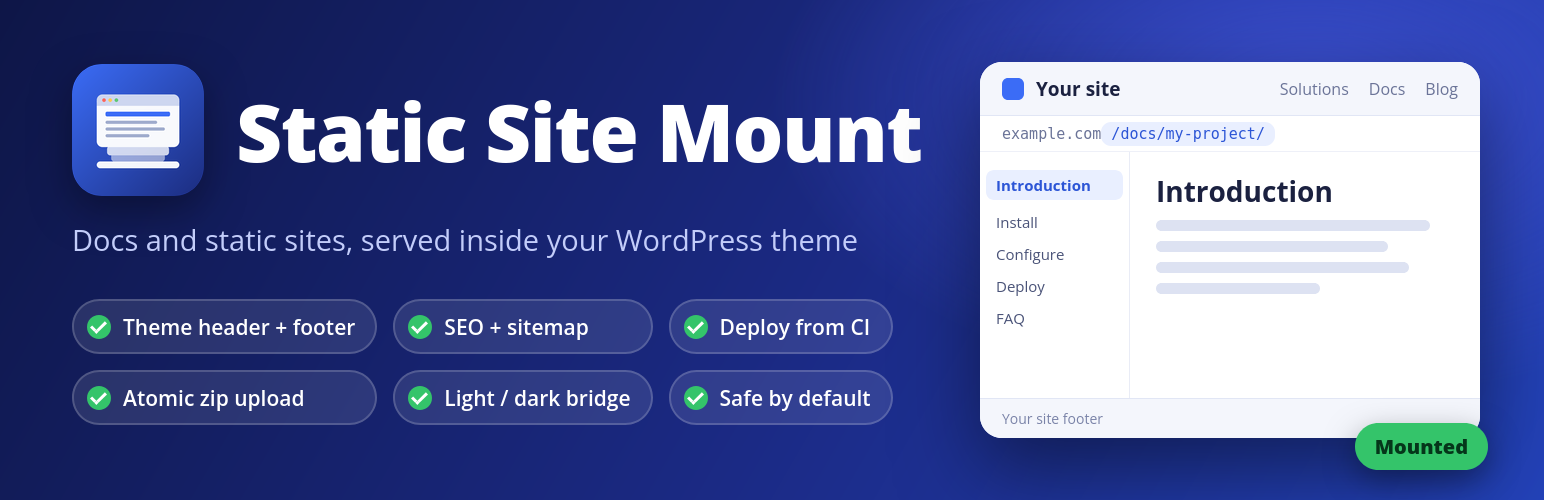
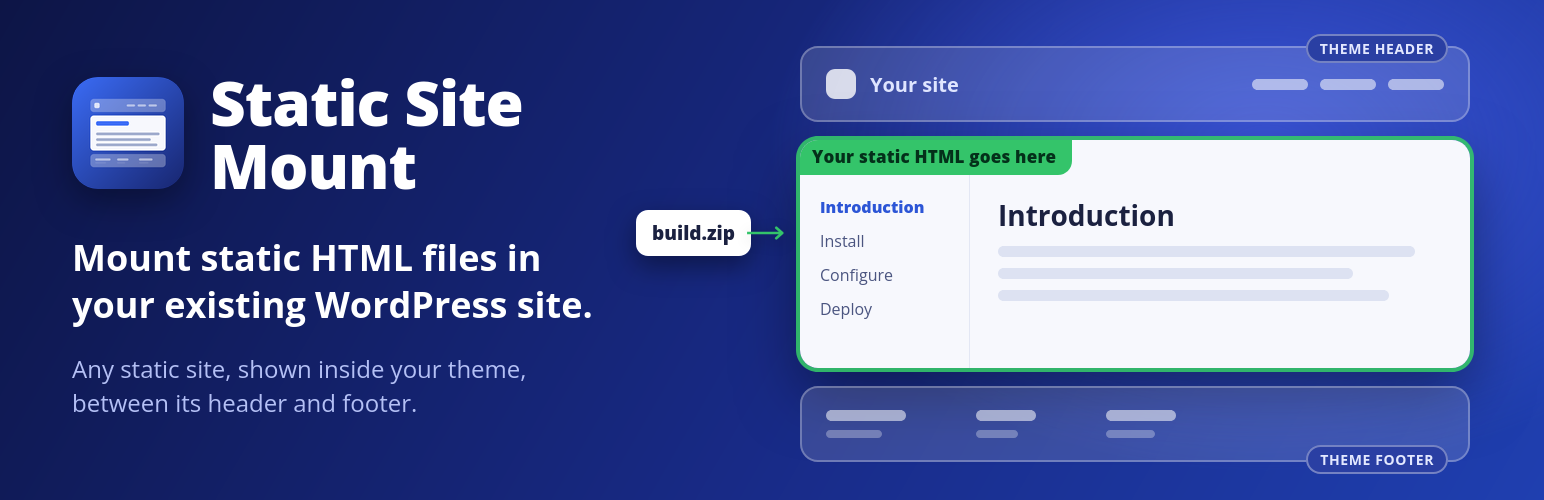
fix: several minor graphic fixes

diff --git a/assets/src/banner.html b/assets/src/banner.html
@@ -1,45 +1,52 @@
 <!doctype html><meta charset="utf-8">
 <style>
 *{box-sizing:border-box;margin:0}
-body{width:1544px;height:500px;overflow:hidden;font-family:"Open Sans","Noto Sans","Liberation Sans",sans-serif;color:#fff;
-background:radial-gradient(900px 500px at 85% 20%,#3b4fd0 0%,rgba(59,79,208,0) 60%),linear-gradient(120deg,#0e1647 0%,#1b2a85 55%,#2342b8 100%);position:relative}
-.left{position:absolute;left:72px;top:64px;width:860px}
-.head{display:flex;align-items:center;gap:32px}
-.head img{width:132px;height:132px;border-radius:30px;box-shadow:0 14px 40px rgba(0,0,0,.35)}
-h1{font-size:80px;line-height:1;font-weight:800;letter-spacing:-1.5px;white-space:nowrap}
-.tag{margin:24px 0 0 0;font-size:29px;color:#c3cdfa;white-space:nowrap}
-.pills{display:grid;grid-template-columns:repeat(3,auto);gap:16px;margin-top:40px;width:max-content}
-.pill{display:flex;align-items:center;gap:12px;padding:11px 20px 11px 13px;border-radius:40px;background:rgba(255,255,255,.1);border:2px solid rgba(255,255,255,.18);font-size:21px;font-weight:600;white-space:nowrap}
-.pill i{width:24px;height:24px;border-radius:50%;background:#34c46a;display:inline-block;position:relative}
-.pill i:after{content:"";position:absolute;left:7px;top:3px;width:6px;height:12px;border:solid #fff;border-width:0 3px 3px 0;transform:rotate(45deg)}
-.card{position:absolute;right:64px;top:62px;width:500px;height:376px;border-radius:22px;background:#fff;color:#1b2140;box-shadow:0 30px 80px rgba(0,0,0,.45);overflow:hidden}
-.nav{height:54px;background:#f4f6fc;border-bottom:1px solid #e1e6f5;display:flex;align-items:center;padding:0 22px;gap:12px;font-size:19px;font-weight:700}
-.nav b{width:22px;height:22px;border-radius:6px;background:#3b6cf6}
-.nav span{margin-left:auto;color:#6b7498;font-weight:500;font-size:16px;display:flex;gap:20px}
-.url{height:36px;background:#fff;border-bottom:1px solid #eef0f8;font-size:15px;color:#6b7498;padding:0 22px;display:flex;align-items:center;font-family:"DejaVu Sans Mono",monospace}
-.url em{background:#e9efff;color:#2c55d6;padding:3px 10px;border-radius:10px;font-style:normal}
-.body{display:flex;height:calc(100% - 90px - 40px)}
-.side{width:150px;border-right:1px solid #e9ecf6;padding:18px 16px;font-size:15px;color:#4a5378;display:flex;flex-direction:column;gap:12px}
-.side u{text-decoration:none;color:#2c55d6;font-weight:700;background:#e9efff;border-radius:8px;padding:5px 10px;margin:0 -10px}
-.main{padding:20px 26px;flex:1}
-.main h2{font-size:28px;margin-bottom:10px}
-.ln{height:11px;border-radius:6px;background:#dde2f2;margin:10px 0}
-.foot{position:absolute;bottom:0;left:0;right:0;height:40px;background:#f4f6fc;border-top:1px solid #e1e6f5;font-size:14px;color:#7a83a8;display:flex;align-items:center;padding:0 22px}
-.badge{position:absolute;right:56px;bottom:30px;background:#34c46a;color:#05361a;font-weight:800;font-size:20px;padding:10px 20px;border-radius:30px;box-shadow:0 10px 30px rgba(0,0,0,.35)}
+body{width:1544px;height:500px;overflow:hidden;font-family:"Open Sans","Noto Sans","Liberation Sans",sans-serif;color:#fff;position:relative;
+background:radial-gradient(800px 520px at 82% 30%,#3a54d8 0%,rgba(58,84,216,0) 62%),linear-gradient(120deg,#0d1546 0%,#182a86 55%,#1f3fb0 100%)}
+.left{position:absolute;left:72px;top:70px;width:540px}
+.brand{display:flex;align-items:center;gap:26px}
+.brand img{width:112px;height:112px;border-radius:26px;box-shadow:0 12px 34px rgba(0,0,0,.35)}
+h1{font-size:62px;line-height:1.02;font-weight:800;letter-spacing:-1px}
+.tag{margin-top:38px;font-size:36px;line-height:1.3;color:#fff;font-weight:700}
+.sub{margin-top:24px;font-size:24px;line-height:1.4;color:#b4c0f5}
+
+/* the diagram */
+.stack{position:absolute;left:800px;top:46px;width:670px}
+.band{border-radius:18px;display:flex;align-items:center;padding:0 24px;position:relative}
+.theme{height:76px;background:rgba(255,255,255,.14);border:2px solid rgba(255,255,255,.28);font-size:20px;font-weight:700;color:#dfe5ff;gap:14px}
+.theme .lg{width:30px;height:30px;border-radius:9px;background:rgba(255,255,255,.8)}
+.theme .nav{margin-left:auto;display:flex;gap:12px}
+.theme .nav i{width:56px;height:11px;border-radius:6px;background:rgba(255,255,255,.55)}
+.tag-l{position:absolute;right:20px;top:-14px;font-size:14px;font-weight:700;letter-spacing:.6px;text-transform:uppercase;background:#2a3fa3;border:2px solid rgba(255,255,255,.35);border-radius:20px;padding:3px 12px;color:#e3e8ff}
+.page{margin:18px 0;height:228px;background:#f7f8fd;color:#1b2140;border-radius:18px;padding:0;overflow:hidden;box-shadow:0 0 0 4px rgba(52,196,106,.9),0 24px 60px rgba(0,0,0,.4);display:flex;position:relative}
+.page .side{width:170px;border-right:1px solid #e3e7f4;padding:56px 20px 22px;font-size:16px;color:#4b5580;display:flex;flex-direction:column;gap:12px}
+.page .side u{text-decoration:none;color:#2c55d6;font-weight:800}
+.page .main{flex:1;padding:22px 28px}
+.page h2{font-size:28px;margin-bottom:12px}
+.ln{height:11px;border-radius:6px;background:#dde2f2;margin:11px 0}
+.ribbon{position:absolute;left:-2px;top:-2px;background:#34c46a;color:#04301a;font-weight:800;font-size:17px;padding:7px 16px 7px 14px;border-radius:16px 0 14px 0;letter-spacing:.2px;z-index:2}
+.foot{height:76px;background:rgba(255,255,255,.14);border:2px solid rgba(255,255,255,.28)}
+.foot .cols{display:flex;gap:70px}
+.foot .cols div{display:flex;flex-direction:column;gap:9px}
+.foot .cols i{display:block;height:11px;border-radius:6px;background:rgba(255,255,255,.55)}
+.foot .cols i+i{height:8px;background:rgba(255,255,255,.3);width:70%}
+/* arrow from the build into the page */
+.build{position:absolute;left:636px;top:210px;width:150px;display:flex;align-items:center;gap:0;z-index:3}
+.build .zip{background:#fff;color:#1b2140;font-weight:800;font-size:19px;padding:10px 16px;border-radius:12px;box-shadow:0 10px 26px rgba(0,0,0,.4);white-space:nowrap}
+.build svg{margin-left:-4px;filter:drop-shadow(0 4px 8px rgba(0,0,0,.35))}
 </style>
 <div class="left">
- <div class="head"><img src="../icon-static-512x512.png"><div><h1>Static Site Mount</h1></div></div>
- <div class="tag">Docs and static sites, served inside your WordPress theme</div>
- <div class="pills">
-  <div class="pill"><i></i>Theme header + footer</div><div class="pill"><i></i>SEO + sitemap</div><div class="pill"><i></i>Deploy from CI</div>
-  <div class="pill"><i></i>Atomic zip upload</div><div class="pill"><i></i>Light / dark bridge</div><div class="pill"><i></i>Safe by default</div>
+ <div class="brand"><img src="../icon-static-512x512.png"><h1>Static Site<br>Mount</h1></div>
+ <div class="tag">Mount static HTML files in your existing WordPress site.</div>
+ <div class="sub">Any static site, shown inside your theme, between its header and footer.</div>
+</div>
+<div class="build"><div class="zip">build.zip</div>
+ <svg width="104" height="40" viewBox="0 0 104 40"><path d="M2 20h88M78 6l16 14-16 14" fill="none" stroke="#34c46a" stroke-width="7" stroke-linecap="round" stroke-linejoin="round"/></svg></div>
+<div class="stack">
+ <div class="band theme"><span class="lg"></span>Your site<div class="nav"><i></i><i></i><i></i></div><span class="tag-l">Theme header</span></div>
+ <div class="page"><span class="ribbon">Your static HTML goes here</span>
+  <div class="side"><u>Introduction</u><span>Install</span><span>Configure</span><span>Deploy</span></div>
+  <div class="main" style="padding-top:56px"><h2>Introduction</h2><div class="ln" style="width:94%"></div><div class="ln" style="width:80%"></div><div class="ln" style="width:88%"></div></div>
  </div>
+ <div class="band theme foot"><div class="cols"><div><i style="width:80px"></i><i></i></div><div><i style="width:60px"></i><i></i></div><div><i style="width:70px"></i><i></i></div></div><span class="tag-l" style="top:auto;bottom:-14px">Theme footer</span></div>
 </div>
-<div class="card">
- <div class="nav"><b></b>Your site<span><i style="font-style:normal">Solutions</i><i style="font-style:normal">Docs</i><i style="font-style:normal">Blog</i></span></div>
- <div class="url">example.com<em>/docs/my-project/</em></div>
- <div class="body"><div class="side"><u>Introduction</u><span>Install</span><span>Configure</span><span>Deploy</span><span>FAQ</span></div>
- <div class="main"><h2>Introduction</h2><div class="ln" style="width:92%"></div><div class="ln" style="width:78%"></div><div class="ln" style="width:85%"></div><div class="ln" style="width:55%"></div></div></div>
- <div class="foot">Your site footer</div>
-</div>
-<div class="badge">Mounted</div>

diff --git a/README.md b/README.md
@@ -1,66 +1,54 @@
 # Static Site Mount
 
-[![Latest release](https://img.shields.io/github/v/release/wenisch-tech/wordpress-static-site-mount?label=release)](https://github.com/wenisch-tech/wordpress-static-site-mount/releases/latest)
 [![License: GPL v2+](https://img.shields.io/badge/license-GPL--2.0--or--later-blue)](LICENSE)
-[![Plugin Check](https://img.shields.io/badge/Plugin%20Check-passing-brightgreen)](#development)
 
 ![Static Site Mount](assets/banner-1544x500.png)
 
-Static Site Mount publishes a **built static site** (Docusaurus, MkDocs, Hugo, plain HTML) at a URL of your WordPress site, **inside your theme's header and footer**, with SEO tags and a sitemap, and lets you **deploy it from CI with one request**.
+A WordPress plugin that mounts static HTML files in your existing WordPress site. A folder of HTML, CSS, JavaScript and images is served at a path of your choice and shown between your theme's header and footer. Where the files come from does not matter: a documentation generator (for example Docusaurus, MkDocs or Hugo), a landing page, an exported report, or HTML you wrote by hand.
 
-Typical use: product documentation built with Docusaurus lives at `https://example.com/docs/my-project/`, looks like part of your site, and updates itself on every release. No second domain, no iframe, no copy of your header in the docs project.
+I wrote it because static sites, project docs in particular, usually end up on a subdomain with their own look, their own menu and no connection to the main site's SEO. With this plugin the build lives at something like `example.com/docs/my-project/`, looks like the rest of the site, and is updated by a single request from CI.
 
-![Static Site Mount logo](assets/logo-animation.gif)
+## What happens to a page
 
-## What it does
+You deploy a folder of HTML files. When someone opens one of its URLs, the plugin reads the file, takes your block theme's header and footer, and prints the page's own `<body>` between them. If the files come with their own navbar and footer, those are hidden with CSS, or removed on the server for plain HTML. Hiding is the safer choice for JavaScript-driven sites (Docusaurus and MkDocs Material are examples), because their scripts expect the original markup to be there.
 
-- **Mounts a folder at a URL prefix.** Pages, assets and fonts are served through WordPress with correct MIME types, `ETag`/`304`, and long-lived caching for fingerprinted files.
-- **Wraps pages in your block theme's header and footer**, so menu, branding and the light/dark switch are shared. The generator's own navbar and footer are hidden with CSS (JavaScript apps keep working) or removed on the server (plain HTML).
-- **Writes the SEO tags itself:** title, meta description, canonical URL (rewritten to the mounted URL), Open Graph and Twitter tags, `noindex` support. Yoast SEO's tags are suppressed on these pages, so nothing is duplicated.
-- **Sitemap:** `/stasimo-pages.xml`, announced in Yoast's sitemap index and `robots.txt`.
-- **Deploy from CI:** upload a zip to a REST endpoint; the folder is replaced atomically and re-indexed. WP-CLI commands are included.
-- **Light/dark bridge:** the mounted site follows your theme's light or dark choice.
-- **Safe by default:** only allow-listed file types are served, no dotfiles, no path traversal, archives are checked for zip-slip and executable files, and the files are not reachable directly from `wp-content`. A refused deploy leaves the live site untouched.
-- **Own admin menu** with a mounts list, per-mount details, enable/disable and an About page with an environment check.
+The plugin writes the head itself: title, description, canonical URL, Open Graph and Twitter tags, `noindex` if the page asks for it. If Yoast SEO is active, its tags are switched off on these pages so nothing is duplicated. All pages go into `/stasimo-pages.xml`, which is added to Yoast's sitemap index and to `robots.txt`.
 
-| Mounts | Mount details |
-|---|---|
-| ![Mounts list](assets/screenshot-2.png) | ![Mount details](assets/screenshot-3.png) |
+Other things it does:
 
-![A mounted Docusaurus site inside the theme](assets/screenshot-1.png)
+- serves assets with the right MIME type, `ETag`, and long caching for fingerprinted files
+- follows the theme's light/dark choice, if you tell it the localStorage key
+- replaces a mount's folder atomically on every deploy
+- has its own admin menu (Static Sites) and WP-CLI commands
 
 ## Requirements
 
-- WordPress 5.9 or later and PHP 7.4 or later (the `zip` extension is needed for deploys).
-- A **block theme** for the header/footer wrapper. Classic themes get the page without the theme chrome; use the `stasimo_header_html` and `stasimo_footer_html` filters.
-- Pretty permalinks (**Settings → Permalinks**).
+WordPress 5.9, PHP 7.4 with the zip extension (needed for deploys), pretty permalinks, and a block theme. With a classic theme the page is served without header and footer, unless you supply them through the `stasimo_header_html` and `stasimo_footer_html` filters.
 
-## Installation
+## Install
 
-1. Download `static-site-mount-x.y.z.zip` from the [releases page](https://github.com/wenisch-tech/wordpress-static-site-mount/releases).
-2. Go to **Plugins → Add New → Upload Plugin**, upload the ZIP and activate it.
+Download the zip from the releases page, upload it under Plugins, Add New, Upload Plugin, and activate it. There is no release yet, so for now: copy this folder to `wp-content/plugins/static-site-mount/`.
 
-Or unzip it into `wp-content/plugins/` and activate it there.
+## Set up a mount
 
-## Quick start
+Build your site with the mount's URL as its base path. The plugin does not rewrite URLs inside JavaScript bundles, so this has to be right at build time. Hand-written HTML with relative links needs nothing special. Two examples of the setting:
 
-1. **Build your site with the mount prefix as its base URL.** Docusaurus:
+Docusaurus:
 
-   ```js
-   // docusaurus.config.js
-   url: 'https://example.com',
-   baseUrl: '/docs/my-project/',
-   trailingSlash: true,
-   ```
+```js
+// docusaurus.config.js
+url: 'https://example.com',
+baseUrl: '/docs/my-project/',
+trailingSlash: true,
+```
 
-   MkDocs: `site_url: https://example.com/docs/my-project/`.
+MkDocs: `site_url: https://example.com/docs/my-project/`
 
-2. Open **Static Sites → Mounts → Add mount**: name `my-project`, URL prefix `docs/my-project`, type *Docusaurus*. Optional: the localStorage key of your theme's light/dark choice, and the header height if your theme's header is fixed.
-3. Deploy (see below). Done: `https://example.com/docs/my-project/`.
+Other generators have an equivalent (Hugo: `baseURL`). Then go to Static Sites, Mounts, Add mount, and fill in a name (`my-project`), the URL prefix (`docs/my-project`) and the type. Choose a generator's type if there is one (Docusaurus, MkDocs Material), otherwise "Generic static site". Two optional fields are worth knowing about: the localStorage key your theme uses for light/dark, and the height of your header if it is fixed at the top (the content is pushed down by that much).
 
 ## Deploy from CI
 
-Create an **Application Password** for an administrator (**Users → Profile**) and store it as a secret. After the build:
+Create an Application Password for an administrator account and keep it as a secret. After the build:
 
 ```bash
 cd build && zip -qr ../build.zip . && cd ..
@@ -69,84 +57,82 @@ curl -fsS -u "$WP_USER:$WP_APP_PASSWORD" \
   "https://example.com/wp-json/static-site-mount/v1/mounts/my-project/deploy"
 ```
 
-A complete GitHub Actions job is in [`examples/github-action-deploy.yml`](examples/github-action-deploy.yml). Use multipart (`-F file=@...`): PHP then keeps the upload on disk instead of in memory. A raw `--data-binary` body works for small sites.
+There is a complete GitHub Actions job in [`examples/github-action-deploy.yml`](examples/github-action-deploy.yml). Send the file as multipart; PHP then keeps it on disk instead of in memory. A raw request body also works for small sites.
 
-A zip may have its files at the root or inside a single top-level folder. A build without a top-level `index.html`, or one containing a disallowed file type (for example `.php`), is **refused and the live site stays as it was**.
+The zip can have its files at the top level or inside one folder. If the build has no top-level `index.html`, or contains a file type that is not allowed (`.php`, for example), the deploy is refused and the live site stays as it was.
 
-| Endpoint | Purpose |
+| Endpoint | What it does |
 |---|---|
-| `GET  /wp-json/static-site-mount/v1/mounts` | list mounts, page counts, last index time |
-| `PUT  /wp-json/static-site-mount/v1/mounts/<slug>` | create or update a mount (JSON) |
-| `POST /wp-json/static-site-mount/v1/mounts/<slug>/deploy` | replace the folder with an uploaded zip, re-index |
-| `POST /wp-json/static-site-mount/v1/mounts/<slug>/reindex` | re-index after files changed by other means (FTP, rsync) |
+| `GET /wp-json/static-site-mount/v1/mounts` | list mounts with page counts |
+| `PUT /wp-json/static-site-mount/v1/mounts/<name>` | create or update a mount (JSON) |
+| `POST /wp-json/static-site-mount/v1/mounts/<name>/deploy` | replace the folder with a zip, re-index |
+| `POST /wp-json/static-site-mount/v1/mounts/<name>/reindex` | re-index after changing files some other way |
 
-WP-CLI: `wp static-site-mount list | add | deploy | reindex`.
+WP-CLI: `wp static-site-mount list`, `add`, `deploy`, `reindex`.
 
 ## Mount settings
 
 | Setting | Meaning |
 |---|---|
-| Name | short name, also the default folder `wp-content/uploads/static-sites/<name>/` |
-| URL prefix | where the site appears, for example `docs/my-project`; must match the build's base URL |
-| Type | preset for the generator: Docusaurus, MkDocs Material, or generic static site |
-| Hide elements | CSS selectors hidden in addition to the preset (safe for JavaScript apps) |
+| Name | short name; also the folder name under `wp-content/uploads/static-sites/` |
+| URL prefix | where the site appears, e.g. `docs/my-project`; must match the build's base URL |
+| Type | a preset for a known generator (Docusaurus, MkDocs Material) or generic static site |
+| Hide elements | extra CSS selectors to hide (safe for JavaScript apps) |
 | Remove elements | simple selectors (`tag`, `#id`, `.class`, spaces) removed on the server |
-| Space for a fixed header | pushes the content below a fixed theme header |
+| Space for a fixed header | pixels of padding for a fixed theme header |
 | Light/dark key | localStorage key of the theme's light/dark choice |
-| Title suffix | appended to page titles |
-| Sitemap / noindex | list pages in the sitemap, or ask search engines not to index the mount |
+| Title suffix | appended to every page title |
+| Sitemap, noindex | list the pages in the sitemap, or ask search engines to skip the mount |
 
-A disabled mount is not routed and not in the sitemap; its files and settings are kept.
+A disabled mount is not routed and not in the sitemap. Its files and settings stay.
 
-## Other generators
-
-Choose *Generic static site* and set which elements to remove (for example `header.site-header, footer.site-footer`) or hide. To add a preset, use the `stasimo_presets` filter:
+For anything else, pick "Generic static site" and list what to remove, for example `header.site-header, footer.site-footer`. To reuse the same settings for other mounts, add a preset with the `stasimo_presets` filter:
 
 ```php
-add_filter( 'stasimo_presets', function ( $p ) {
-    $p['hugo-book'] = array(
+add_filter( 'stasimo_presets', function ( $presets ) {
+    $presets['hugo-book'] = array(
         'label' => 'Hugo Book', 'hide' => '.book-header, .book-footer',
         'remove' => '', 'theme_key' => '', 'css' => '',
     );
-    return $p;
+    return $presets;
 } );
 ```
 
-Other hooks: `stasimo_title`, `stasimo_description`, `stasimo_header_html`, `stasimo_footer_html`, `stasimo_host_css`, `stasimo_mime_types`, `stasimo_base_dir`, `stasimo_allow_external_dirs` (allow absolute mount folders, off by default), and the action `stasimo_deployed`.
+Other hooks: `stasimo_title`, `stasimo_description`, `stasimo_header_html`, `stasimo_footer_html`, `stasimo_host_css`, `stasimo_mime_types`, `stasimo_base_dir`, `stasimo_allow_external_dirs`, and the action `stasimo_deployed`.
+
+## Security
+
+A mounted build is HTML and JavaScript served from your own domain. Whoever can deploy can run script on your site, so only deploy builds you trust. Managing mounts therefore needs both `manage_options` and `unfiltered_html`. On multisite, site admins don't have the second one, so only super admins can use the plugin. For CI, use an Application Password of a dedicated administrator.
+
+Uploads are limited to a list of file types. Names that look executable (`shell.php.png`), paths with `..` or absolute paths, and archives larger than 512 MB unpacked or 50,000 files are refused. Mount folders always sit inside `wp-content/uploads/static-sites/`.
+
+On Apache the plugin writes an `.htaccess` that blocks direct access to that folder. On nginx you need to add `location ^~ /wp-content/uploads/static-sites/ { deny all; }` yourself, otherwise the raw files can also be fetched without the theme around them.
+
+The plugin makes no outgoing requests and stores no personal data.
+
+If you upgrade from 0.2.x, settings are migrated on the first request. A `wp-content/static-sites/` folder from the old version keeps being used until you move it.
+
+Report vulnerabilities as a [private security advisory](https://github.com/wenisch-tech/wordpress-static-site-mount/security/advisories/new), not as a public issue.
 
 ## Limitations
 
-- The mounted site's **CSS and your theme's CSS share one page.** Generator styles can collide with theme styles (headings, buttons). Check your pages and add overrides if needed.
-- **Client-side routing needs the right base URL at build time.** The plugin does not rewrite URLs inside JavaScript bundles.
-- Only the generator's own navbar and footer are replaced. Search boxes and version dropdowns that live in the navbar are hidden with it.
-- One WordPress server only: no multisite-aware paths, no CDN purging.
-- Yoast SEO is handled; Rank Math and other SEO plugins only partly.
+- The static site's CSS and your theme's CSS end up on one page and can collide (headings, buttons, fonts). Check a few pages after the first deploy and add overrides where needed.
+- Search boxes or version menus that live in a navbar that gets hidden are hidden with it. Keep the navbar and hide only parts of it if you need them.
+- One server only. There is no CDN purge, and multisite is only lightly tested.
+- Yoast SEO is handled. Other SEO plugins may still print their own tags.
 
 ## Development
 
-Contributions are welcome: fork, branch, follow the [WordPress Coding Standards](https://developer.wordpress.org/coding-standards/wordpress-coding-standards/), open a pull request against `main`.
-
 ```bash
-tests/run.sh up              # throwaway WordPress + MariaDB with the plugin, in Docker
-tests/smoke.sh http://localhost:8089 docs/product
-bin/build-zip.sh             # release zip without tests and dev files
+tests/run.sh up            # WordPress + MariaDB in Docker, plugin mounted
+tests/smoke.sh http://localhost:8089 docs/mini
+bin/build-zip.sh           # release zip without tests and dev files
 ```
 
-The release build passes [Plugin Check](https://wordpress.org/plugins/plugin-check/) without errors or warnings. To run it, start the test environment with `STASIMO_SRC=<built folder> tests/run.sh up`, install `plugin-check` and run `wp plugin check static-site-mount`.
+`tests/fixtures/` holds a small Docusaurus-like site and a deliberately hostile zip fixture. The release build is checked with [Plugin Check](https://wordpress.org/plugins/plugin-check/) (start the environment with `STASIMO_SRC=<built folder> tests/run.sh up`, install `plugin-check`, run `wp plugin check static-site-mount`).
 
-The logo and icons are generated by [`assets/src/make_logo.py`](assets/src/make_logo.py); the banner is [`assets/src/banner.html`](assets/src/banner.html).
-
-## Security model
-
-- **A mounted build is raw HTML and JavaScript served from your site's own origin.** Whoever can deploy can therefore run script on your site. Managing mounts and deploying need both `manage_options` and `unfiltered_html`; on multisite, site administrators do not have the latter, so only super admins can mount sites. Only deploy builds you trust.
-- Every route needs authentication; CI uses an [Application Password](https://make.wordpress.org/core/2020/11/05/application-passwords-integration-guide/). Create it for a dedicated administrator account.
-- Deploys accept only allow-listed file types (no `.php`, no executable-looking names such as `shell.php.png`), refuse unsafe paths (`..`, absolute paths, zip-slip), cap the unpacked size at 512 MB and 50,000 files, and swap the folder atomically. Mount folders always live inside `wp-content/uploads/static-sites/`.
-- Files are served only through WordPress, with `X-Content-Type-Options: nosniff`. On **Apache** a generated `.htaccess` blocks direct access to the folder. On **nginx** add `location ^~ /wp-content/uploads/static-sites/ { deny all; }`, otherwise the raw files are also reachable without the theme wrapper.
-- The plugin makes no external requests and collects no data.
-- Upgrading from 0.2: settings are migrated automatically. Files in `wp-content/static-sites/` keep being served from there until you move them into `wp-content/uploads/static-sites/`.
-
-Please report vulnerabilities through a [private security advisory](https://github.com/wenisch-tech/wordpress-static-site-mount/security/advisories/new) rather than a public issue.
+The logo and icons are generated by [`assets/src/make_logo.py`](assets/src/make_logo.py), the banner is [`assets/src/banner.html`](assets/src/banner.html). Pull requests are welcome; follow the WordPress coding standards.
 
 ## License
 
-[GPL v2 or later](https://www.gnu.org/licenses/gpl-2.0.html), the same license as WordPress.
+GPL v2 or later, like WordPress. See [LICENSE](LICENSE).
